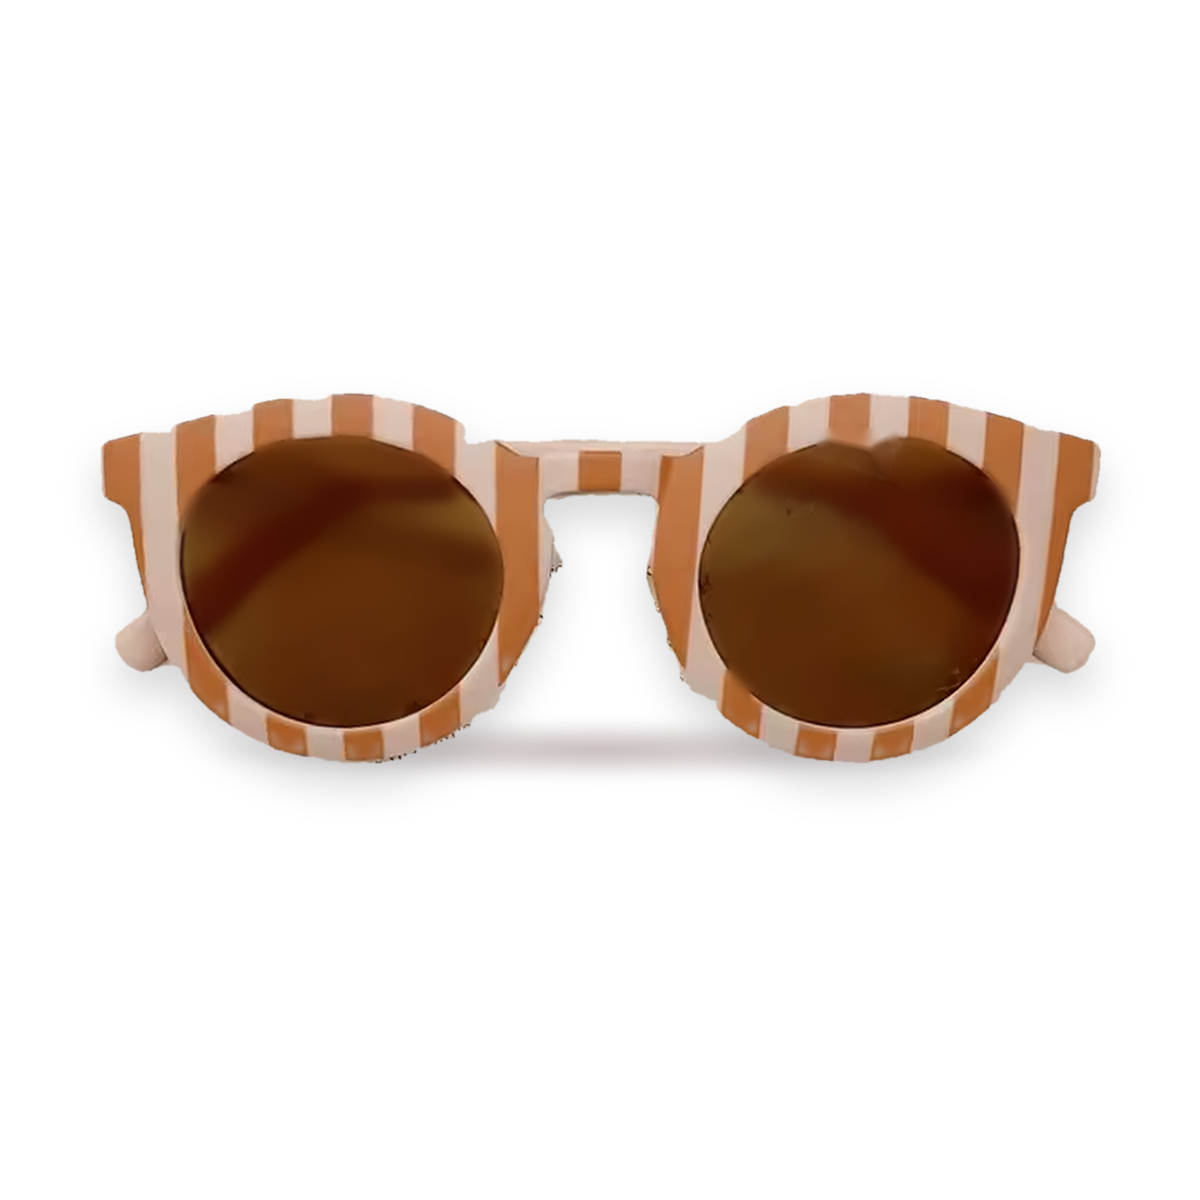
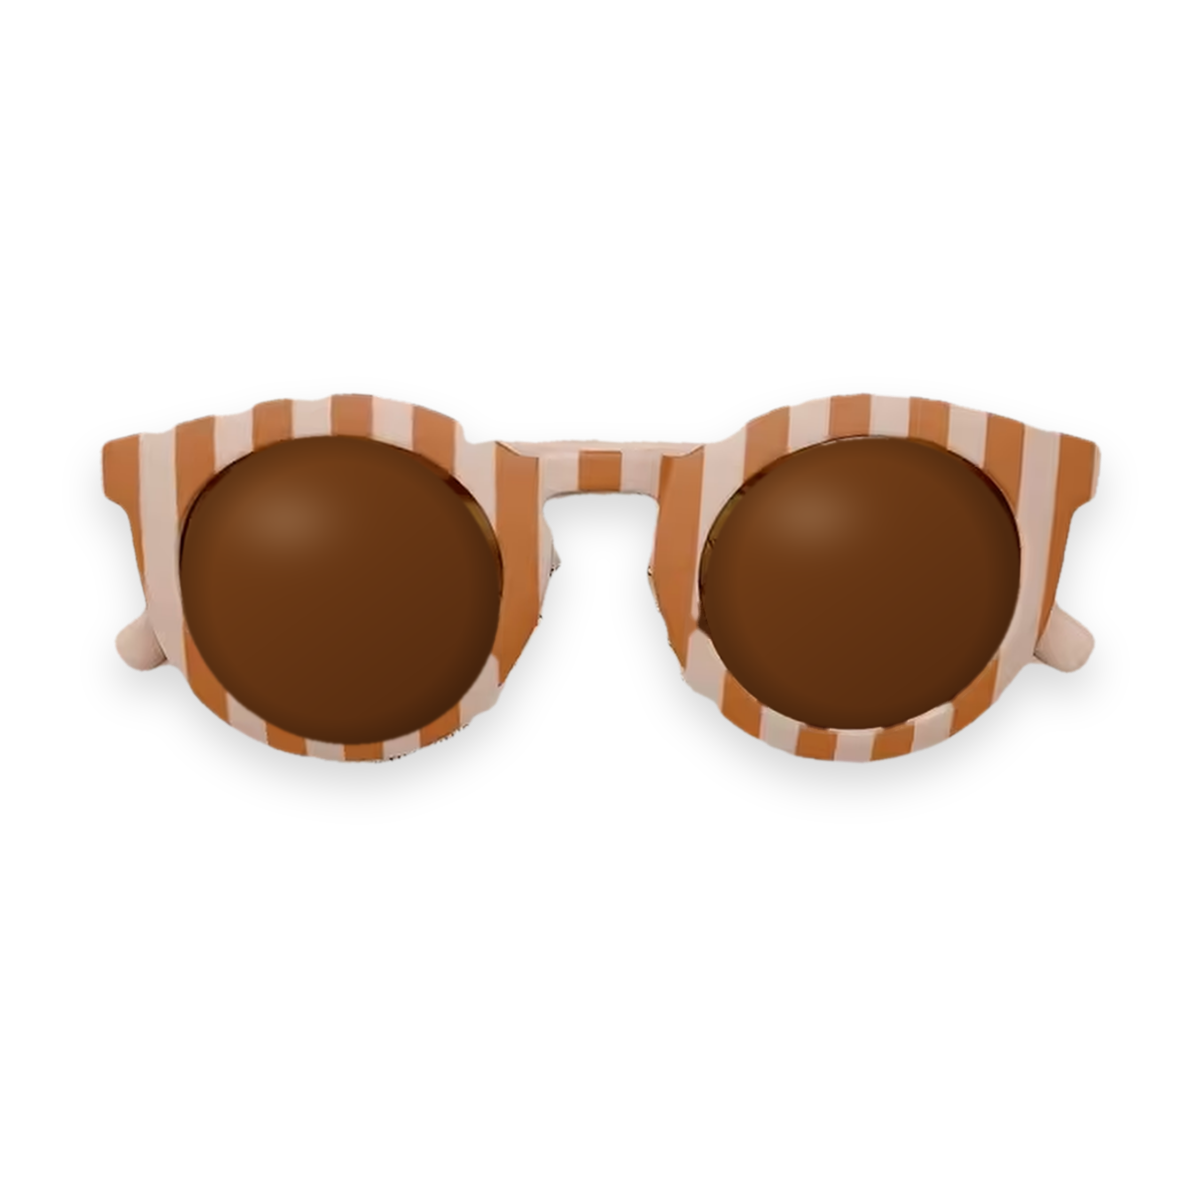
Recorte de las gafas de rayas: lentes limpios y borde más suave
Claude-Session: https://claude.ai/code/session_01Nmsujw5inBeAZKWmtCeCB5

diff --git a/contenido-web/gafas-rayas/LEEME.md b/contenido-web/gafas-rayas/LEEME.md
@@ -11,4 +11,4 @@
 - `lifestyle-2-foto` (1080×1350): la foto original enmarcada.
 - `story-hora-de-sol` (1080×1920): historia con arco rosa.
 
-**Limitaciones:** la foto de origen mide 800 px, así que el recorte tiene unos 1100 px de ancho (se ve algo suave) y quedan pequeñas imperfecciones en el borde cerca del puente. En el retoque de los lentes se quitó la marca impresa "UV400 / CE". Cuando llegue el producto, fotografíalo tú para tener la versión definitiva.
+**Limitaciones:** la foto de origen mide 800 px, así que el recorte tiene unos 1100 px de ancho. Los lentes se redibujaron limpios (en la foto original reflejaban el texto del papel), por lo que son una aproximación y no muestran la marca impresa UV400 / CE. Quedan pequeñas imperfecciones en el borde de la montura cerca del puente. Cuando llegue el producto, fotografíalo tú para tener la versión definitiva.
